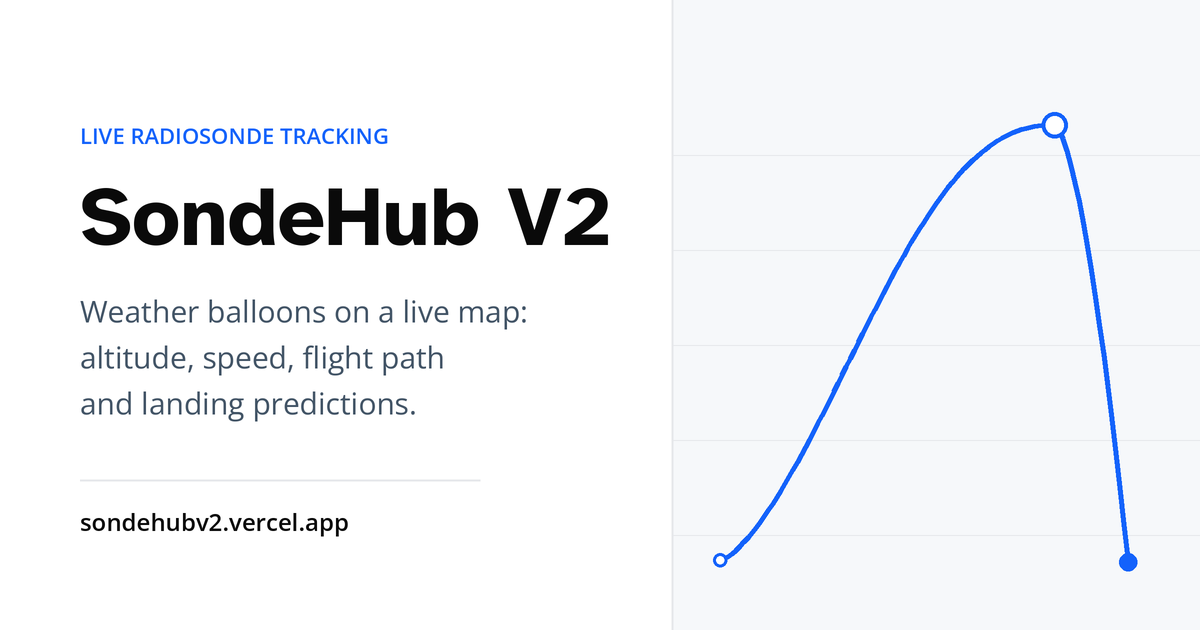
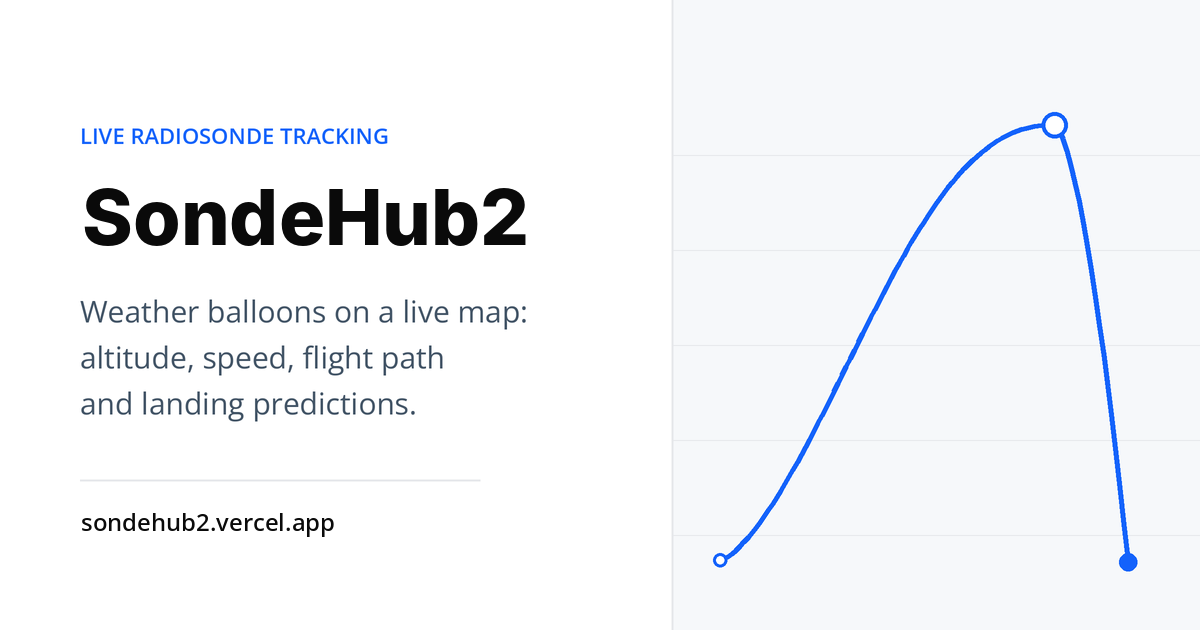
Renomme SondeHub V2 en SondeHub2 partout
Interface, 13 langues, titres, métadonnées SEO, manifest, llms.txt, export GPX, image de partage, README et docs.

Changed region(s): [[0.3392, 0.3016, 0.5242, 0.3921], [0.0617, 0.3016, 0.2775, 0.3921], [0.0617, 0.8143, 0.3083, 0.8444]]

diff --git a/seo/content.ts b/seo/content.ts
@@ -8,67 +8,67 @@ export interface SeoText {
 
 export const SEO_TEXT: Record<Locale, SeoText> = {
   fr: {
-    body: "SondeHub V2 affiche en direct les ballons-sondes lancés chaque jour par les services météorologiques : position, altitude, vitesse, trajectoire, prévision du point d'atterrissage et stations de réception. Les données proviennent du réseau ouvert SondeHub, alimenté par des radioamateurs du monde entier.",
+    body: "SondeHub2 affiche en direct les ballons-sondes lancés chaque jour par les services météorologiques : position, altitude, vitesse, trajectoire, prévision du point d'atterrissage et stations de réception. Les données proviennent du réseau ouvert SondeHub, alimenté par des radioamateurs du monde entier.",
     loading: 'Chargement de la carte interactive… JavaScript doit être activé.',
     languages: 'Langues',
   },
   en: {
-    body: 'SondeHub V2 shows the weather balloons launched every day by meteorological services on a live map: position, altitude, speed, flight path, landing prediction and receiving stations. Data comes from the open SondeHub network, fed by radio amateurs around the world.',
+    body: 'SondeHub2 shows the weather balloons launched every day by meteorological services on a live map: position, altitude, speed, flight path, landing prediction and receiving stations. Data comes from the open SondeHub network, fed by radio amateurs around the world.',
     loading: 'Loading the interactive map… JavaScript must be enabled.',
     languages: 'Languages',
   },
   de: {
-    body: 'SondeHub V2 zeigt die täglich von Wetterdiensten gestarteten Wetterballons live auf einer Karte: Position, Höhe, Geschwindigkeit, Flugbahn, Landevorhersage und Empfangsstationen. Die Daten stammen aus dem offenen SondeHub-Netz, das von Funkamateuren weltweit gespeist wird.',
+    body: 'SondeHub2 zeigt die täglich von Wetterdiensten gestarteten Wetterballons live auf einer Karte: Position, Höhe, Geschwindigkeit, Flugbahn, Landevorhersage und Empfangsstationen. Die Daten stammen aus dem offenen SondeHub-Netz, das von Funkamateuren weltweit gespeist wird.',
     loading: 'Interaktive Karte wird geladen… JavaScript muss aktiviert sein.',
     languages: 'Sprachen',
   },
   es: {
-    body: 'SondeHub V2 muestra en directo los globos sonda que los servicios meteorológicos lanzan cada día: posición, altitud, velocidad, trayectoria, predicción del punto de aterrizaje y estaciones receptoras. Los datos proceden de la red abierta SondeHub, alimentada por radioaficionados de todo el mundo.',
+    body: 'SondeHub2 muestra en directo los globos sonda que los servicios meteorológicos lanzan cada día: posición, altitud, velocidad, trayectoria, predicción del punto de aterrizaje y estaciones receptoras. Los datos proceden de la red abierta SondeHub, alimentada por radioaficionados de todo el mundo.',
     loading: 'Cargando el mapa interactivo… JavaScript debe estar activado.',
     languages: 'Idiomas',
   },
   it: {
-    body: 'SondeHub V2 mostra in diretta i palloni sonda lanciati ogni giorno dai servizi meteorologici: posizione, altitudine, velocità, traiettoria, previsione del punto di atterraggio e stazioni riceventi. I dati provengono dalla rete aperta SondeHub, alimentata da radioamatori di tutto il mondo.',
+    body: 'SondeHub2 mostra in diretta i palloni sonda lanciati ogni giorno dai servizi meteorologici: posizione, altitudine, velocità, traiettoria, previsione del punto di atterraggio e stazioni riceventi. I dati provengono dalla rete aperta SondeHub, alimentata da radioamatori di tutto il mondo.',
     loading: 'Caricamento della mappa interattiva… JavaScript deve essere attivato.',
     languages: 'Lingue',
   },
   nl: {
-    body: 'SondeHub V2 toont de weerballonnen die weerdiensten dagelijks oplaten live op een kaart: positie, hoogte, snelheid, traject, landingsvoorspelling en ontvangststations. De gegevens komen van het open SondeHub-netwerk, gevoed door radioamateurs over de hele wereld.',
+    body: 'SondeHub2 toont de weerballonnen die weerdiensten dagelijks oplaten live op een kaart: positie, hoogte, snelheid, traject, landingsvoorspelling en ontvangststations. De gegevens komen van het open SondeHub-netwerk, gevoed door radioamateurs over de hele wereld.',
     loading: 'Interactieve kaart wordt geladen… JavaScript moet ingeschakeld zijn.',
     languages: 'Talen',
   },
   pl: {
-    body: 'SondeHub V2 pokazuje na żywo balony meteorologiczne wypuszczane codziennie przez służby meteorologiczne: położenie, wysokość, prędkość, trajektorię, prognozę miejsca lądowania i stacje odbiorcze. Dane pochodzą z otwartej sieci SondeHub, zasilanej przez krótkofalowców z całego świata.',
+    body: 'SondeHub2 pokazuje na żywo balony meteorologiczne wypuszczane codziennie przez służby meteorologiczne: położenie, wysokość, prędkość, trajektorię, prognozę miejsca lądowania i stacje odbiorcze. Dane pochodzą z otwartej sieci SondeHub, zasilanej przez krótkofalowców z całego świata.',
     loading: 'Ładowanie interaktywnej mapy… JavaScript musi być włączony.',
     languages: 'Języki',
   },
   cs: {
-    body: 'SondeHub V2 zobrazuje živě meteorologické balony, které meteorologické služby vypouštějí každý den: polohu, výšku, rychlost, trajektorii, předpověď místa přistání a přijímací stanice. Data pocházejí z otevřené sítě SondeHub, kterou napájejí radioamatéři z celého světa.',
+    body: 'SondeHub2 zobrazuje živě meteorologické balony, které meteorologické služby vypouštějí každý den: polohu, výšku, rychlost, trajektorii, předpověď místa přistání a přijímací stanice. Data pocházejí z otevřené sítě SondeHub, kterou napájejí radioamatéři z celého světa.',
     loading: 'Načítání interaktivní mapy… JavaScript musí být povolen.',
     languages: 'Jazyky',
   },
   pt: {
-    body: 'O SondeHub V2 mostra em direto os balões meteorológicos lançados todos os dias pelos serviços de meteorologia: posição, altitude, velocidade, trajetória, previsão do local de aterragem e estações recetoras. Os dados vêm da rede aberta SondeHub, alimentada por radioamadores de todo o mundo.',
+    body: 'O SondeHub2 mostra em direto os balões meteorológicos lançados todos os dias pelos serviços de meteorologia: posição, altitude, velocidade, trajetória, previsão do local de aterragem e estações recetoras. Os dados vêm da rede aberta SondeHub, alimentada por radioamadores de todo o mundo.',
     loading: 'A carregar o mapa interativo… O JavaScript tem de estar ativado.',
     languages: 'Idiomas',
   },
   sv: {
-    body: 'SondeHub V2 visar de väderballonger som vädertjänster skickar upp varje dag live på en karta: position, höjd, hastighet, bana, landningsprognos och mottagarstationer. Datan kommer från det öppna SondeHub-nätverket, som matas av radioamatörer över hela världen.',
+    body: 'SondeHub2 visar de väderballonger som vädertjänster skickar upp varje dag live på en karta: position, höjd, hastighet, bana, landningsprognos och mottagarstationer. Datan kommer från det öppna SondeHub-nätverket, som matas av radioamatörer över hela världen.',
     loading: 'Laddar den interaktiva kartan… JavaScript måste vara aktiverat.',
     languages: 'Språk',
   },
   ja: {
-    body: 'SondeHub V2 は、各国の気象機関が毎日放球するラジオゾンデをライブマップに表示します。位置、高度、速度、飛行経路、着地予測、受信局を確認できます。データは世界中のアマチュア無線家が支えるオープンな SondeHub ネットワークから取得しています。',
+    body: 'SondeHub2 は、各国の気象機関が毎日放球するラジオゾンデをライブマップに表示します。位置、高度、速度、飛行経路、着地予測、受信局を確認できます。データは世界中のアマチュア無線家が支えるオープンな SondeHub ネットワークから取得しています。',
     loading: 'インタラクティブマップを読み込み中… JavaScript を有効にしてください。',
     languages: '言語',
   },
   zh: {
-    body: 'SondeHub V2 在实时地图上显示各国气象部门每天施放的探空气球：位置、高度、速度、飞行轨迹、落点预测和接收站。数据来自由全球业余无线电爱好者支持的开放 SondeHub 网络。',
+    body: 'SondeHub2 在实时地图上显示各国气象部门每天施放的探空气球：位置、高度、速度、飞行轨迹、落点预测和接收站。数据来自由全球业余无线电爱好者支持的开放 SondeHub 网络。',
     loading: '正在加载交互式地图… 请启用 JavaScript。',
     languages: '语言',
   },
   ru: {
-    body: 'SondeHub V2 показывает на карте в реальном времени метеозонды, которые метеослужбы запускают каждый день: положение, высоту, скорость, траекторию, прогноз места посадки и приёмные станции. Данные поступают из открытой сети SondeHub, которую поддерживают радиолюбители со всего мира.',
+    body: 'SondeHub2 показывает на карте в реальном времени метеозонды, которые метеослужбы запускают каждый день: положение, высоту, скорость, траекторию, прогноз места посадки и приёмные станции. Данные поступают из открытой сети SondeHub, которую поддерживают радиолюбители со всего мира.',
     loading: 'Загрузка интерактивной карты… Необходимо включить JavaScript.',
     languages: 'Языки',
   },

diff --git a/src/i18n/fr/app.ts b/src/i18n/fr/app.ts
@@ -1,11 +1,11 @@
 export const app = {
-  'app.title': 'SondeHub V2 — Radiosondes en temps réel',
+  'app.title': 'SondeHub2 — Radiosondes en temps réel',
   'app.description': "Suivi en temps réel des radiosondes météo : trajectoires, prédictions d'atterrissage, récepteurs.",
   'app.language': 'Langue',
   'app.languageChoose': 'Choisir la langue',
   'app.languageCurrent': 'Langue : {name}',
   'app.loadError': 'Impossible de charger les sondes : {message}',
-  'app.sondeTitle': '{serial} — SondeHub V2',
+  'app.sondeTitle': '{serial} — SondeHub2',
 
   'app.common.close': 'Fermer',
   'app.common.locateMe': 'Me localiser',
@@ -28,7 +28,7 @@ export const app = {
     'Un petit boîtier électronique de quelques centaines de grammes, emporté par un ballon gonflé à l’hélium ou à l’hydrogène. Il mesure la pression, la température et l’humidité, en déduit le vent grâce à son GPS, et transmet le tout par radio chaque seconde. Les services météorologiques en lâchent environ deux fois par jour (vers 00 h et 12 h UTC) pour alimenter les prévisions. Vers 30 km d’altitude, le ballon éclate et la sonde redescend sous un petit parachute.',
   'app.about.faq.dataQ': 'D’où viennent les données ?',
   'app.about.faq.dataA':
-    'Des radioamateurs et passionnés, équipés d’un récepteur souvent très simple (clé SDR et antenne), décodent les signaux et les envoient au réseau <a>SondeHub</a>, qui les met librement à disposition. Les trajectoires et points d’atterrissage prévus sont calculés par le modèle Tawhiri (CUSF) à partir des prévisions de vent. SondeHub V2 ne fait qu’afficher ces données.',
+    'Des radioamateurs et passionnés, équipés d’un récepteur souvent très simple (clé SDR et antenne), décodent les signaux et les envoient au réseau <a>SondeHub</a>, qui les met librement à disposition. Les trajectoires et points d’atterrissage prévus sont calculés par le modèle Tawhiri (CUSF) à partir des prévisions de vent. SondeHub2 ne fait qu’afficher ces données.',
   'app.about.faq.accuracyQ': 'Quelle est la précision de la prédiction d’atterrissage ?',
   'app.about.faq.accuracyA':
     'Elle dépend surtout de la qualité des prévisions de vent. Approximative pendant la montée, elle s’affine nettement pendant la descente, à mesure que la sonde se rapproche du sol : elle est en général juste à quelques kilomètres près. La sonde passe souvent sous l’horizon radio avant de toucher le sol, donc la dernière position reçue reste un indice précieux.',
@@ -37,7 +37,7 @@ export const app = {
     'Elle est sans danger. Vous pouvez la garder, ou la recycler (électronique et piles) selon les règles de votre commune. Pensez à la signaler sur SondeHub avec le bouton « Signaler une récupération » de sa fiche : cela aide toute la communauté. Pour votre sécurité, respectez les propriétés privées, restez prudent au bord des routes, et ne grimpez jamais dans un arbre ni près d’une ligne électrique pour la récupérer.',
   'app.about.faq.alertsQ': 'Comment être alerté ?',
   'app.about.faq.alertsA':
-    'Activez votre position, puis les alertes d’atterrissage dans le panneau des couches (à droite de la carte). SondeHub V2 vous prévient quand un atterrissage est prévu près de chez vous, tant que la page reste ouverte.',
+    'Activez votre position, puis les alertes d’atterrissage dans le panneau des couches (à droite de la carte). SondeHub2 vous prévient quand un atterrissage est prévu près de chez vous, tant que la page reste ouverte.',
   'app.about.legend.heading': 'Légende',
   'app.about.legend.drift': 'Direction de dérive',
   'app.about.legend.burst': 'Éclatement du ballon',
@@ -102,7 +102,7 @@ export const app = {
   'app.help.receivers.text':
     'Stations de radioamateurs et de passionnés qui captent et décodent le signal de la sonde (vers 400 MHz) et partagent ses positions sur SondeHub. Les icônes de voiture sont des récepteurs mobiles.',
 
-  'app.welcome.title': 'Bienvenue sur SondeHub V2',
+  'app.welcome.title': 'Bienvenue sur SondeHub2',
   'app.welcome.close': 'Fermer l’introduction',
   'app.welcome.text':
     'Les radiosondes sont de petits capteurs lâchés sous des ballons météo, environ deux fois par jour, par les services météorologiques. Elles montent au-delà de 30 km puis retombent en parachute ; des radioamateurs les suivent ici en direct.',
@@ -224,7 +224,7 @@ export const app = {
   'app.command.layer.allPredictions.hide': 'Masquer toutes les trajectoires prévues',
   'app.command.layer.receiverLinks.show': 'Afficher les liens sonde ↔ récepteurs',
   'app.command.layer.receiverLinks.hide': 'Masquer les liens sonde ↔ récepteurs',
-  'app.command.about.label': 'À propos de SondeHub V2',
+  'app.command.about.label': 'À propos de SondeHub2',
   'app.command.about.keywords': 'a propos aide info credits sondehub faq questions',
   'app.command.intro.keywords': 'introduction bienvenue tutoriel aide decouvrir debut onboarding',
 } as const;

diff --git a/index.html b/index.html
@@ -7,8 +7,8 @@
     <meta name="color-scheme" content="dark light" />
     <meta name="description" content="Suivi en temps réel des radiosondes météo : trajectoires, prédictions d'atterrissage, récepteurs." />
     <meta name="robots" content="index, follow, max-image-preview:large, max-snippet:-1, max-video-preview:-1" />
-    <meta name="application-name" content="SondeHub V2" />
-    <meta name="apple-mobile-web-app-title" content="SondeHub V2" />
+    <meta name="application-name" content="SondeHub2" />
+    <meta name="apple-mobile-web-app-title" content="SondeHub2" />
     <meta name="format-detection" content="telephone=no" />
     <link rel="icon" type="image/svg+xml" href="/favicon.svg" />
     <link rel="icon" type="image/png" sizes="192x192" href="/icon-192.png" />
@@ -17,7 +17,7 @@
     <link rel="preconnect" href="https://api.v2.sondehub.org" crossorigin />
     <link rel="preconnect" href="https://tiles.openfreemap.org" crossorigin />
     <!--seo-head-->
-    <title>SondeHub V2 — Radiosondes en temps réel</title>
+    <title>SondeHub2 — Radiosondes en temps réel</title>
   </head>
   <body>
     <div id="root"></div>

diff --git a/src/i18n/fr/features.ts b/src/i18n/fr/features.ts
@@ -1,5 +1,5 @@
 export const features = {
-  'app.siteTitle': '{site} — SondeHub V2',
+  'app.siteTitle': '{site} — SondeHub2',
   'app.command.glossary.keywords': 'glossaire lexique definitions vocabulaire termes',
 
   'sonde.data.exportGpx': 'Exporter en GPX',
@@ -30,7 +30,7 @@ export const features = {
   'charts.compare.note': 'Valeurs du sondage comparé ; l’écart est donné par rapport à ce vol.',
 
   'app.glossary.title': 'Glossaire',
-  'app.glossary.intro': 'Les termes utilisés dans SondeHub V2, expliqués simplement.',
+  'app.glossary.intro': 'Les termes utilisés dans SondeHub2, expliqués simplement.',
   'app.glossary.search': 'Rechercher un terme',
   'app.glossary.empty': 'Aucun terme ne correspond.',
   'app.glossary.radiosonde.term': 'Radiosonde',

diff --git a/src/components/Sidebar.tsx b/src/components/Sidebar.tsx
@@ -1012,7 +1012,7 @@ function ListPanel({ onAbout, onFocusSearch, scrollLocked, tab, onTab, geo, onLo
         <div className="flex items-center gap-2">
           <Logo className="mr-1 size-8 shrink-0 md:size-9" />
           <div className="min-w-0 flex-1">
-            <h1 className="text-[19px] leading-tight font-semibold whitespace-nowrap">SondeHub V2</h1>
+            <h1 className="text-[19px] leading-tight font-semibold whitespace-nowrap">SondeHub2</h1>
             <p className="flex min-w-0 items-center gap-1.5 text-[13px] leading-snug">
               <StatusPill />
               <span aria-hidden className="text-faint max-md:hidden">

diff --git a/src/lib/export.ts b/src/lib/export.ts
@@ -34,7 +34,7 @@ export function downloadGPX(s: Sonde) {
     })
     .join('\n');
   const gpx = `<?xml version="1.0" encoding="UTF-8"?>
-<gpx version="1.1" creator="SondeHub V2" xmlns="http://www.topografix.com/GPX/1/1" xmlns:gpxtpx="http://www.garmin.com/xmlschemas/TrackPointExtension/v1">
+<gpx version="1.1" creator="SondeHub2" xmlns="http://www.topografix.com/GPX/1/1" xmlns:gpxtpx="http://www.garmin.com/xmlschemas/TrackPointExtension/v1">
   <metadata><name>${xml(s.serial)}</name><time>${new Date(s.track[0]?.[3] ?? s.lastTime).toISOString()}</time></metadata>
   <trk>
     <name>${xml(t('lib.export.track', { serial: s.serial }))}</name>

diff --git a/src/components/SondeDetail.tsx b/src/components/SondeDetail.tsx
@@ -897,7 +897,7 @@ async function share(sonde: Sonde, landing: PredictionPoint | null, now: number,
   const serial = sonde.serial;
   const replay = useStore.getState().replay;
   const at = replay?.serial === serial ? replayAt(flight, replay.t) : null;
-  const title = `${serial} · SondeHub V2`;
+  const title = `${serial} · SondeHub2`;
   if (at) {
     const text = t('sonde.share.instant', { serial, alt: fmtAlt(at.alt, units), time: fmtClock(at.t * 1000) });
     return shareLink({ title, text, url: pageLink({ s: serial, t: Math.round(at.t) }) });

diff --git a/src/components/SiteDetail.tsx b/src/components/SiteDetail.tsx
@@ -151,7 +151,7 @@ export function SiteDetail({ id }: { id: string }) {
   const share = () => {
     const label = siteLabel(site.name);
     const text = next !== undefined ? t('map.site.shareNext', { site: label, when: relative(next, now) }) : t('map.site.shareText', { site: label });
-    void shareLink({ title: `${label} · SondeHub V2`, text, url: pageLink({ site: site.id }) });
+    void shareLink({ title: `${label} · SondeHub2`, text, url: pageLink({ site: site.id }) });
   };
 
   return (

diff --git a/src/components/AboutModal.tsx b/src/components/AboutModal.tsx
@@ -77,7 +77,7 @@ export function AboutModal({ onClose }: { onClose: () => void }) {
         <DialogHeader className="mb-4 flex-row items-center gap-3 pr-8 text-left">
           <Logo className="size-11 shrink-0" />
           <div className="min-w-0 space-y-1">
-            <DialogTitle>SondeHub V2</DialogTitle>
+            <DialogTitle>SondeHub2</DialogTitle>
             <DialogDescription>{t('app.about.subtitle')}</DialogDescription>
           </div>
         </DialogHeader>

diff --git a/src/lib/api.ts b/src/lib/api.ts
@@ -350,7 +350,7 @@ export async function submitRecovery(report: RecoveryReport): Promise<void> {
   const res = await fetch(`${API}/recovered`, {
     method: 'PUT',
     headers: { 'Content-Type': 'application/json', Date: new Date().toUTCString() },
-    body: JSON.stringify({ ...report, recovery_software: 'SondeHubV2' }),
+    body: JSON.stringify({ ...report, recovery_software: 'SondeHub2' }),
   });
   if (!res.ok) {
     const text = await res.text().catch(() => '');

diff --git a/seo/plugin.ts b/seo/plugin.ts
@@ -6,7 +6,7 @@ import { fr } from '../src/i18n/fr';
 import { SEO_TEXT } from './content';
 
 export const SITE_URL = 'https://sondehub2.vercel.app';
-const SITE_NAME = 'SondeHub V2';
+const SITE_NAME = 'SondeHub2';
 const DEFAULT_LOCALE: Locale = 'en';
 const OG_IMAGE = { path: '/og-image.png', width: 1200, height: 630 };
 const LOCALE_DIR = path.resolve(import.meta.dirname, '../src/i18n/locales');

diff --git a/src/i18n/fr/whatsNew.ts b/src/i18n/fr/whatsNew.ts
@@ -1,6 +1,6 @@
 export const whatsNew = {
   'app.whatsNew.title': 'Nouveautés',
-  'app.whatsNew.intro': 'Les dernières évolutions de SondeHub V2.',
+  'app.whatsNew.intro': 'Les dernières évolutions de SondeHub2.',
   'app.whatsNew.badge': 'Nouveau',
   'app.whatsNew.unread_one': '{count} non lue',
   'app.whatsNew.unread_other': '{count} non lues',
